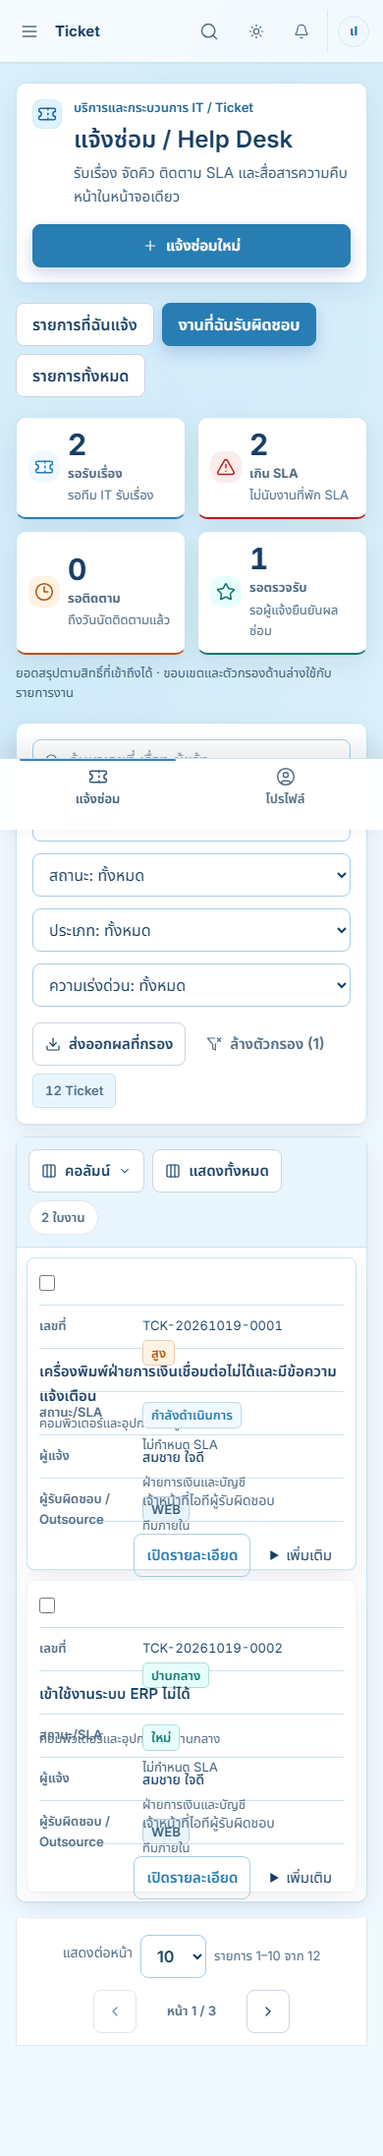
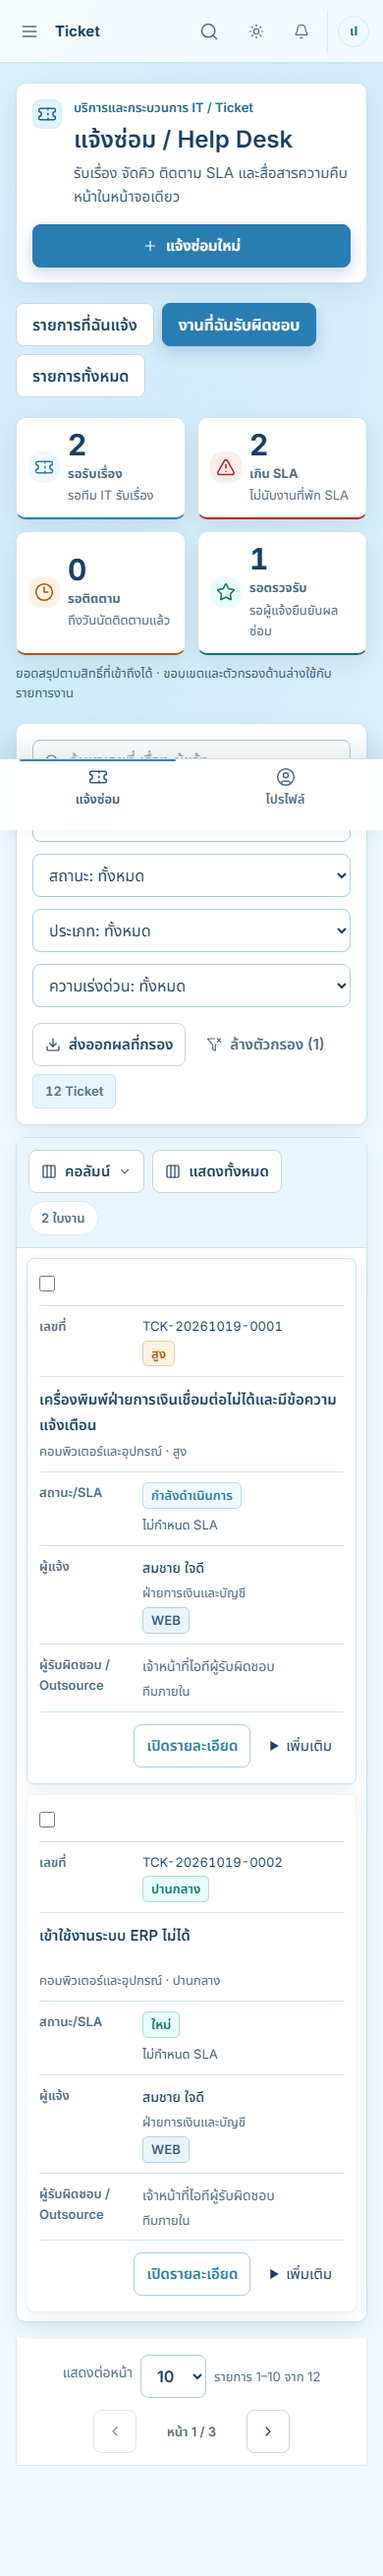
Fix multiline card containment and dark vendor error contrast

Changed region(s): [[0.0, 0.0, 1.0, 0.9612]]

diff --git a/apps/web/src/pages/VendorPortalPage.tsx b/apps/web/src/pages/VendorPortalPage.tsx
@@ -185,7 +185,7 @@ export function VendorPortalPage() {
       <p className="mt-2 text-sm text-slate-500">กรอกรหัส 6 หลักจากแอป Authenticator เพื่อเข้าใช้งาน Vendor Portal</p>
       <form data-ui="form-stack" className="mt-5 space-y-3" onSubmit={(event) => { event.preventDefault(); void verifyLoginMfa(); }}>
         <label className="block text-sm font-semibold">รหัส MFA<input required inputMode="numeric" pattern="[0-9]{6}" maxLength={6} autoComplete="one-time-code" value={mfaCode} onChange={(e) => setMfaCode(e.target.value.replace(/\D/g, '').slice(0, 6))} className={`${fieldClass} text-center font-mono text-xl tracking-[0.3em]`} /></label>
-        {error && <p role="alert" className="text-sm font-semibold text-rose-600">{error}</p>}
+        {error && <p role="alert" className="text-sm font-semibold text-rose-600 dark:text-rose-300">{error}</p>}
         <Button type="submit" className="w-full" isLoading={loggingIn}><ShieldCheck className="h-4 w-4" />ยืนยันและเข้าใช้งาน</Button>
       </form>
       <button type="button" onClick={() => { void supabase.auth.signOut(); setLoginStep('password'); setMfaFactorId(null); setMfaCode(''); }} className="mt-4 w-full text-sm font-semibold text-slate-500">ยกเลิก</button>
@@ -201,7 +201,7 @@ export function VendorPortalPage() {
         <label className="block text-sm font-semibold">รหัสบริษัท<input required autoComplete="organization" value={login.vendorCode} onChange={(e) => setLogin((current) => ({ ...current, vendorCode: e.target.value.toUpperCase() }))} className={fieldClass} placeholder="VND-..." /></label>
         <label className="block text-sm font-semibold">Username<input required autoComplete="username" maxLength={32} pattern="[A-Za-z0-9._-]{3,32}" value={login.username} onChange={(e) => setLogin((current) => ({ ...current, username: e.target.value.toLowerCase() }))} className={fieldClass} /></label>
         <label className="block text-sm font-semibold">รหัสผ่าน<input required type="password" autoComplete="current-password" value={login.password} onChange={(e) => setLogin((current) => ({ ...current, password: e.target.value }))} className={fieldClass} /></label>
-        {error && <p role="alert" className="text-sm font-semibold text-rose-600">{error}</p>}
+        {error && <p role="alert" className="text-sm font-semibold text-rose-600 dark:text-rose-300">{error}</p>}
         <TurnstileWidget ref={turnstileRef} action="login" onTokenChange={setCaptchaToken} />
         <Button type="submit" className="w-full" isLoading={loggingIn} disabled={!captchaToken}><ShieldCheck className="h-4 w-4" />เข้าสู่ระบบบริษัท</Button>
       </form>
@@ -217,7 +217,7 @@ export function VendorPortalPage() {
         <label className="block text-sm font-semibold">รหัสผ่านปัจจุบัน<input required type="password" autoComplete="current-password" value={passwordChange.currentPassword} onChange={(e) => setPasswordChange((current) => ({ ...current, currentPassword: e.target.value }))} className={fieldClass} /></label>
         <label className="block text-sm font-semibold">รหัสผ่านใหม่<input required type="password" minLength={8} autoComplete="new-password" value={passwordChange.newPassword} onChange={(e) => setPasswordChange((current) => ({ ...current, newPassword: e.target.value }))} className={fieldClass} /></label>
         <label className="block text-sm font-semibold">ยืนยันรหัสผ่านใหม่<input required type="password" minLength={8} autoComplete="new-password" value={passwordChange.confirmPassword} onChange={(e) => setPasswordChange((current) => ({ ...current, confirmPassword: e.target.value }))} className={fieldClass} /></label>
-        {error && <p role="alert" className="text-sm font-semibold text-rose-600">{error}</p>}
+        {error && <p role="alert" className="text-sm font-semibold text-rose-600 dark:text-rose-300">{error}</p>}
         <Button type="submit" className="w-full" isLoading={changingPassword}>บันทึกรหัสผ่านใหม่</Button>
       </form>
       <button type="button" onClick={() => void logout()} className="mt-4 w-full text-sm font-semibold text-slate-500">ออกจากระบบ</button>

diff --git a/apps/web/e2e/aurora.spec.ts b/apps/web/e2e/aurora.spec.ts
@@ -88,11 +88,13 @@ for (const width of [390, 1440]) {
 test('vendor login inherits the public dark theme without exposing internal navigation', async ({ page }, testInfo) => {
   await page.setViewportSize({ width: 390, height: 844 });
   await page.addInitScript(() => localStorage.setItem('itlife-theme', 'dark'));
+  await page.route('**/api/v1/vendor-portal/**', route => route.fulfill({ status: 503, json: { success: false, error: { code: 'SERVICE_UNAVAILABLE', message: 'บริการไม่พร้อมใช้งาน กรุณาลองใหม่' } } }));
   await page.route('https://challenges.cloudflare.com/turnstile/**', route => route.fulfill({ contentType: 'application/javascript', body: 'window.turnstile = { render: () => "test", reset: () => {}, remove: () => {} };' }));
   await page.goto('/vendor/portal');
   await expect(page.getByRole('heading', { name: 'Outsource Portal' })).toBeVisible();
   await expect(page.locator('main')).toHaveClass(/life-public/);
   await expect(page.locator('#app-sidebar')).toHaveCount(0);
+  await expect(page.getByRole('alert')).toBeVisible();
   const accessibility = await new AxeBuilder({ page }).withTags(['wcag2a', 'wcag2aa']).analyze();
   expect(accessibility.violations, JSON.stringify(accessibility.violations, null, 2)).toEqual([]);
   expect(await page.evaluate(() => document.documentElement.scrollWidth)).toBeLessThanOrEqual(390);

diff --git a/apps/web/e2e/fullhd-spacing.spec.ts b/apps/web/e2e/fullhd-spacing.spec.ts
@@ -42,6 +42,11 @@ for (const [width, height] of viewports) {
             controlHeights: controls.map(r => r.height),
             controlsOutside: controls.filter(r => r.left < f.left - 1 || r.right > f.right + 1).length,
             kpiOverlaps: kpis.flatMap((a, i) => kpis.slice(i + 1).filter(b => Math.min(a.right, b.right) - Math.max(a.left, b.left) > 1 && Math.min(a.bottom, b.bottom) - Math.max(a.top, b.top) > 1)).length,
+            cellContentOverflow: [...document.querySelectorAll<HTMLElement>('.data-table-cell-content')].filter(el => {
+              const r = el.getBoundingClientRect();
+              const cell = el.closest('td')!.getBoundingClientRect();
+              return r.width > 0 && r.height > 0 && (r.bottom > cell.bottom + 1 || r.top < cell.top - 1);
+            }).length,
           };
         });
         expect(geometry.overflow).toBeLessThanOrEqual(1);
@@ -50,6 +55,7 @@ for (const [width, height] of viewports) {
         expect(geometry.headerFilterOverlap).toBeLessThanOrEqual(0);
         expect(geometry.controlsOutside).toBe(0);
         expect(geometry.kpiOverlaps).toBe(0);
+        expect(geometry.cellContentOverflow).toBe(0);
         expect(geometry.filterPadding).toBe(width >= 640 ? 24 : 16);
         expect(geometry.controlHeights.every(value => value >= 44)).toBe(true);
 

diff --git a/apps/web/src/components/table/data-table.css b/apps/web/src/components/table/data-table.css
@@ -18,6 +18,12 @@
 }
 
 @media (max-width: 639px) {
+  /* Grid cards need natural height: desktop table row heights would let Thai
+     multiline content paint over the following field. */
+  [data-ui='data-table'] table.data-table-cards > tbody > tr > td {
+    height: auto;
+  }
+
   /* Sticky desktop tables must become part of the page scroll in card layout. */
   [data-ui='table-viewport'].data-table-card-viewport {
     max-height: none !important;
@@ -129,6 +135,10 @@
 
 /* Tickets switch to cards earlier so tablet users can read the full work summary. */
 @media (max-width: 1279px) {
+  [data-ui='data-table'] .ticket-list-table.data-table-cards > tbody > tr > td {
+    height: auto;
+  }
+
   [data-ui='table-viewport'].data-table-card-viewport:has(> .ticket-list-table) {
     max-height: none !important;
     overflow: visible;

diff --git a/docs/fullhd-standardization-2026-10-29.md b/docs/fullhd-standardization-2026-10-29.md
@@ -4,7 +4,7 @@ Branch: `ui/fullhd-standardization-20261029`. No merge or production deployment 
 
 ## Scope and inherited work
 
-The workspace started with uncommitted Aurora UI work. Commit `0c83a25` preserves that work separately on this review branch; the original Aurora branch remains at its original commit. Subsequent changes implement this spacing request. No API, database, authentication, authorization or workflow code was changed.
+The workspace started with uncommitted Aurora UI work. Commit `aa14b69` preserves that work separately on this review branch; the original Aurora branch remains at its original commit. Commit `e946491` implements this spacing request. The branch was based on the current master tree to avoid including already-released changes in the PR. No API, database, authentication, authorization or workflow code was changed.
 
 PR #86 was inspected: it is a draft and explicitly has no executed browser evidence. Reused its flexible search, wrapping page actions and opt-in form bounds approach. Spacing lives in `system.css`, without desktop token overrides in `index.css`; the existing content width cap is retained.
 
@@ -20,10 +20,14 @@ PR #86 was inspected: it is a draft and explicitly has no executed browser evide
 | P2 | DataTable | Header horizontal padding 13px and cells 16px differed | Both use 12px horizontal and 10px vertical standard tokens |
 | P2 | Modal | Header/body/footer used different padding | Dedicated 24px modal token; retain full-bleed/compact opt-ins |
 | P3 | Mobile shell | Competing important padding overrides | Remove competing importance; preserve bottom navigation safe area |
+| P1 | DataTable mobile cards / Ticket tablet cards | Desktop fixed cell height allowed multiline text to overlap later fields; found during screenshot review | Natural card-cell height with a geometry assertion that content stays inside its cell |
+| P2 | Vendor Portal dark error state | CI axe found error text contrast 3.59:1 | Add dark error color; deterministically render the service-error state before the axe assertion |
 
 Standard tokens: gutter 32px desktop, 24px tablet, 16px mobile; section/card gap 24px; card padding 24px; form gap 16px; label gap 8px; button gap 8px; minimum control height 44px; card/input radius 10/8px; modal padding 24px; table cells 12px horizontal and 10px vertical. Mobile card padding/gap are 16/12px. Explicit compact/comfortable density choices still adjust spacing; the standard mode is the acceptance baseline. Controls retain a minimum of 44px.
 
 Changed source: `styles/system.css`, `index.css`, `components/ui/{Card,FilterBar,Modal,PageHeader}.tsx`, `components/table/DataTable.tsx`. Updated the existing Modal unit test and added `e2e/fullhd-spacing.spec.ts` and `e2e/fullhd-modules.spec.ts`.
+
+Follow-up source: `components/table/data-table.css` and `pages/VendorPortalPage.tsx`; regression coverage in `fullhd-spacing.spec.ts` and `aurora.spec.ts`. New mobile-card containment checks passed 36/36; the deterministic dark Vendor error/axe check passed 1/1. Refreshed the after screenshots following the cell-height fix.
 
 ## Executed local verification
 
@@ -34,18 +38,21 @@ Changed source: `styles/system.css`, `index.css`, `components/ui/{Card,FilterBar
 | Web production build | Passed, exit 0; existing Zod annotation warnings |
 | Build budgets | Passed |
 | Modal, DataTable, ShellNavigation and density unit tests | 4 files / 50 passed |
+| Complete web unit suite (`--pool=threads --maxWorkers=4 --reporter=verbose`) | 88 files / 557 passed |
 | Ticket list/create/validation/modal bounds at 120% text scale | 36 passed: all 9 viewports × light/dark × sidebar preference |
 | All navigation module recovery surfaces | 43 passed: each at all 9 viewports × light/dark (774 geometry checks) |
+| Complete Chromium suite | 220 passed, 30 live-only skipped, 0 failed, 0 flaky |
+| WebKit login and Ticket interaction suite | 10 passed |
 
 Viewports: 1920×1080, 1600×900, 1440×900, 1366×768, 1280×800, 1024×768, 768×1024, 390×844, 375×812. Browser zoom is the default 100%; UI font scaling is tested separately. On mobile the sidebar preference is stored, while the drawer follows its existing responsive behavior.
 
-One initial Ticket screenshot capture timed out during competing test processes; the complete rerun with two workers passed 36/36. The initial default-fork unit run stalled; the targeted thread-pool run passed. These interrupted attempts are not counted as passing full-suite checks.
+One initial Ticket screenshot capture timed out during competing test processes; the complete rerun with two workers passed 36/36. Earlier unit attempts were interrupted after slow progress under competing processes; the final complete thread-pool run passed 557/557. Interrupted attempts are not counted as passing checks.
 
 Screenshots: [desktop before](fullhd-evidence/before-1920.png), [desktop after](fullhd-evidence/after-1920.png), [mobile before](fullhd-evidence/before-390.png), [mobile after](fullhd-evidence/after-390.png), [validation and enlarged text](fullhd-evidence/create-validation-1920.png). All use isolated test fixtures. Local detailed logs remain in `.tmp/fullhd-*`.
 
 ## Live UAT and release status
 
-The existing 30 live-only Chromium cases require the configured staging environment and real API/database. Local `.dev.vars` says `development`, which alone does not establish database isolation, so it was not used for live writes. The repository already has a `Staging Live E2E` workflow bound to GitHub environment `staging`; the review PR is the intended path to execute the current commit there. Record the actual workflow result before sign-off.
+The existing [30 live-only Chromium cases](fullhd-live-uat-cases.md) require the configured staging environment and real API/database. Local `.dev.vars` says `development`, which alone does not establish database isolation, so it was not used for live writes. [Draft PR #87](https://github.com/nitithornct-ops/APP-IT-LIFE/pull/87) triggered [Staging Live E2E](https://github.com/nitithornct-ops/APP-IT-LIFE/actions/runs/40813675957), bound to GitHub environment `staging`, for source commit `e946491`. Record the actual workflow result before sign-off.
 
 Recovery tests deliberately return API 503 and cover each navigation entry's shell/error rendering. They do not validate success workflows, every detail/create state, every permission combination, LINE delivery or vendor submissions. Ticket success/create/validation uses API fixtures, not live data. Route declarations and navigation coverage are inventoried in [the route inventory](aurora/route-inventory.md); dynamically identified routes require corresponding authorized records and separate UAT.
 

diff --git a/docs/fullhd-live-uat-cases.md b/docs/fullhd-live-uat-cases.md
@@ -1,0 +1,36 @@
+# Live UAT case inventory
+
+These 30 Chromium cases are generated from the current Playwright inventory. Status must be populated from the staging artifact; inventory alone is not execution evidence.
+
+| # | Spec | Case |
+|---|---|---|
+| 1 | assets-modal.live.spec.ts | asset create, edit and action forms open as bounded popups |
+| 2 | dashboard.live.spec.ts | live API returns role-aware and RLS-aware dashboard summaries |
+| 3 | dashboard.live.spec.ts | admin dashboard renders operational cards and urgent data |
+| 4 | dashboard.live.spec.ts | regular user dashboard keeps organizational records out of the personal view |
+| 5 | employees-assets.live.spec.ts | employee register and all action forms render as bounded popups |
+| 6 | external-uat.live.spec.ts | Requester completes its route and permission-boundary checks |
+| 7 | external-uat.live.spec.ts | Technician completes its route and permission-boundary checks |
+| 8 | external-uat.live.spec.ts | Approver completes its route and permission-boundary checks |
+| 9 | external-uat.live.spec.ts | Manager completes its route and permission-boundary checks |
+| 10 | external-uat.live.spec.ts | Admin completes its route and permission-boundary checks |
+| 11 | external-uat.live.spec.ts | Vendor accesses the isolated company portal with an AAL2 session on mobile |
+| 12 | governance.live.spec.ts | live API covers all active Governance surfaces, workflows and RBAC |
+| 13 | governance.live.spec.ts | admin UI renders all sections and creates a high risk record |
+| 14 | governance.live.spec.ts | regular user sees only AI/Awareness and can e-sign policy |
+| 15 | maintenance-modal.live.spec.ts | PM dashboard and every primary action use bounded popups |
+| 16 | reports.live.spec.ts | live API returns every standard report, enforces RBAC and records exports |
+| 17 | reports.live.spec.ts | admin UI renders report controls, data and all report tabs |
+| 18 | reports.live.spec.ts | regular employee is denied the Report Center route |
+| 19 | serviceCatalog.live.spec.ts | workspace matches catalog, request and management flows |
+| 20 | settings-audit.live.spec.ts | live API enforces Settings and Audit role boundaries |
+| 21 | settings-audit.live.spec.ts | administrator can view and safely edit an allowlisted setting |
+| 22 | settings-audit.live.spec.ts | auditor can inspect Audit Trail and Login History without Settings access |
+| 23 | tasks.live.spec.ts | task command center renders on desktop and switches to calendar |
+| 24 | tasks.live.spec.ts | primary task actions call the API and update the interface |
+| 25 | tasks.live.spec.ts | task command center remains contained on mobile |
+| 26 | ticket-actions.live.spec.ts | opens the shared work panel from the Ticket list and explains final statuses |
+| 27 | ticket-actions.live.spec.ts | sorts the Ticket list by SLA due date and keeps the sort across pages |
+| 28 | ticket-actions.live.spec.ts | keeps the Ticket list filter and sort in the URL across reload and browser back |
+| 29 | ticket-actions.live.spec.ts | selects tickets and reports bulk results per ticket |
+| 30 | ticket-form.live.spec.ts | signs one Ticket and shows that signature on its automatic form |
